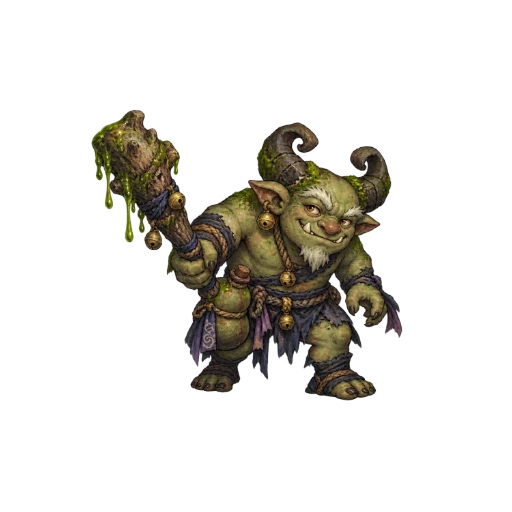
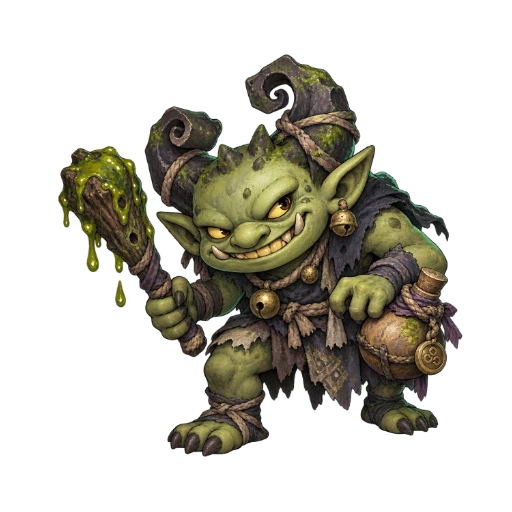
feat(art): register moonlight tribe (12); replace poison_dokkaebi cutout
Previous commit only carried the skins: the export guard refuses to overwrite a
differing runtime file, so the regenerated poison_dokkaebi needed the old WebP
removed explicitly first.

diff --git a/src/data/characterArt.ts b/src/data/characterArt.ts
@@ -98,6 +98,18 @@ const RITUAL_V2_IDS = [
   'glacier_warrior',
   'great_mask_god',
   'mask_complete',
+  'celestial_dancer',
+  'three_legged_crow',
+  'storm_archer',
+  'moonlight_rabbit',
+  'starlight_fairy',
+  'crescent_archer',
+  'moonlight_tiger',
+  'galaxy_warrior',
+  'full_moon_sorcerer',
+  'solar_eclipse_warrior',
+  'lunar_eclipse_mage',
+  'moonlight_complete',
 ] as const satisfies readonly MonsterId[];
 
 type RitualV2Id = (typeof RITUAL_V2_IDS)[number];
